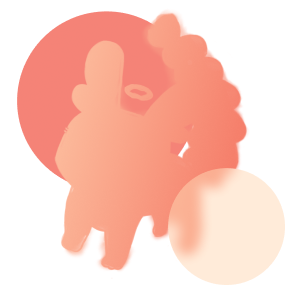
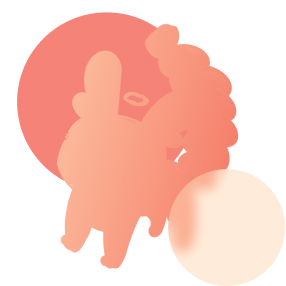
fin

diff --git a/templates/profile.html b/templates/profile.html
@@ -95,7 +95,7 @@
                         <p class="white_text">Дает +25% ко всем очкам команды, в конце игры</p>
                     </div>
                     <div class="pokemon_img">
-                        <img src="{{ url_for('static', filename='/img/reflexis.png') }}" alt="Макималятор 2">
+                        <img src="{{ url_for('static', filename='/img/reflexis_top.png') }}" alt="Макималятор 2">
                     </div>
                 </div>            
             </div>
